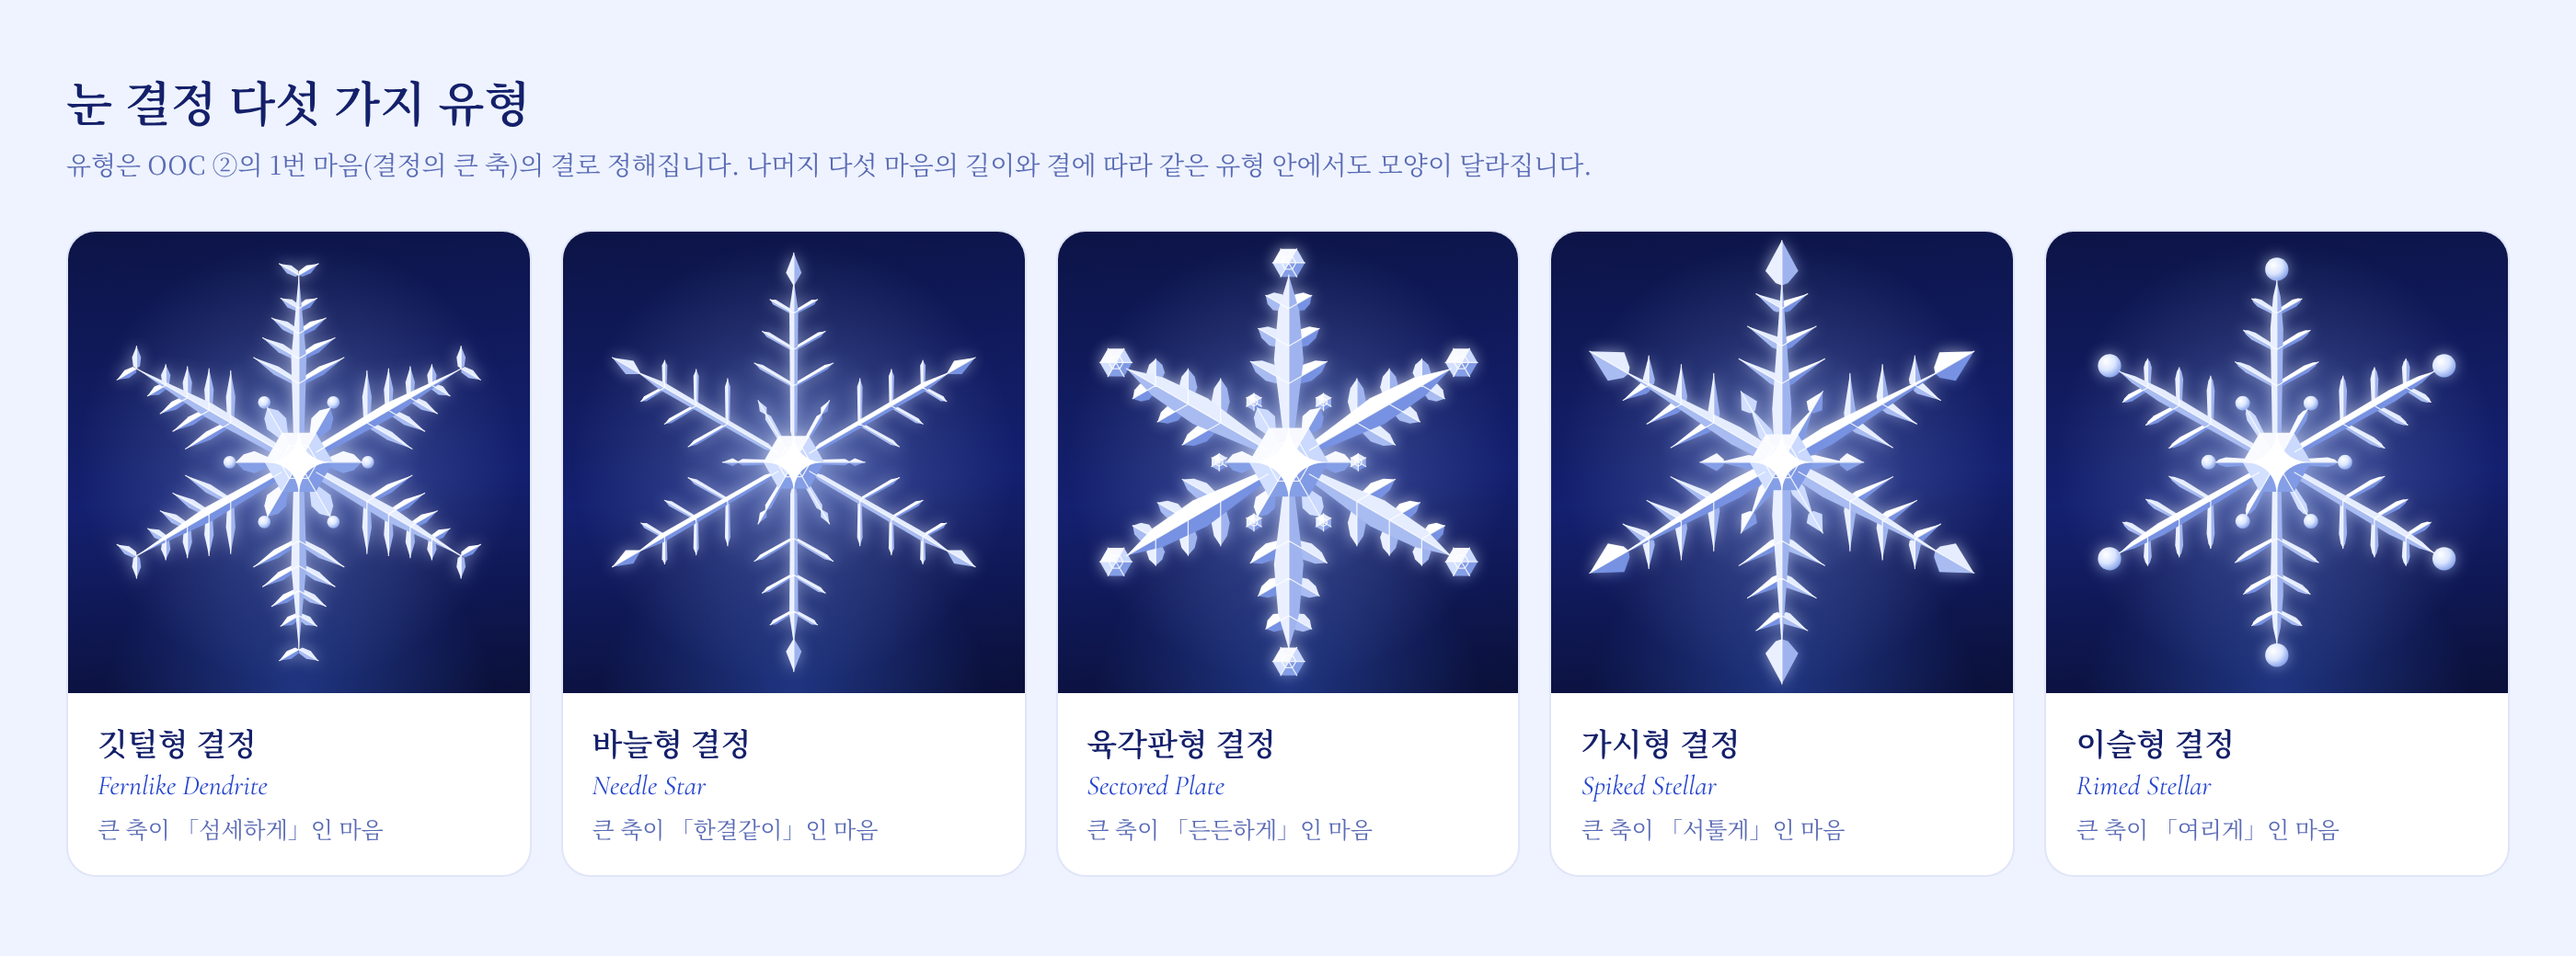
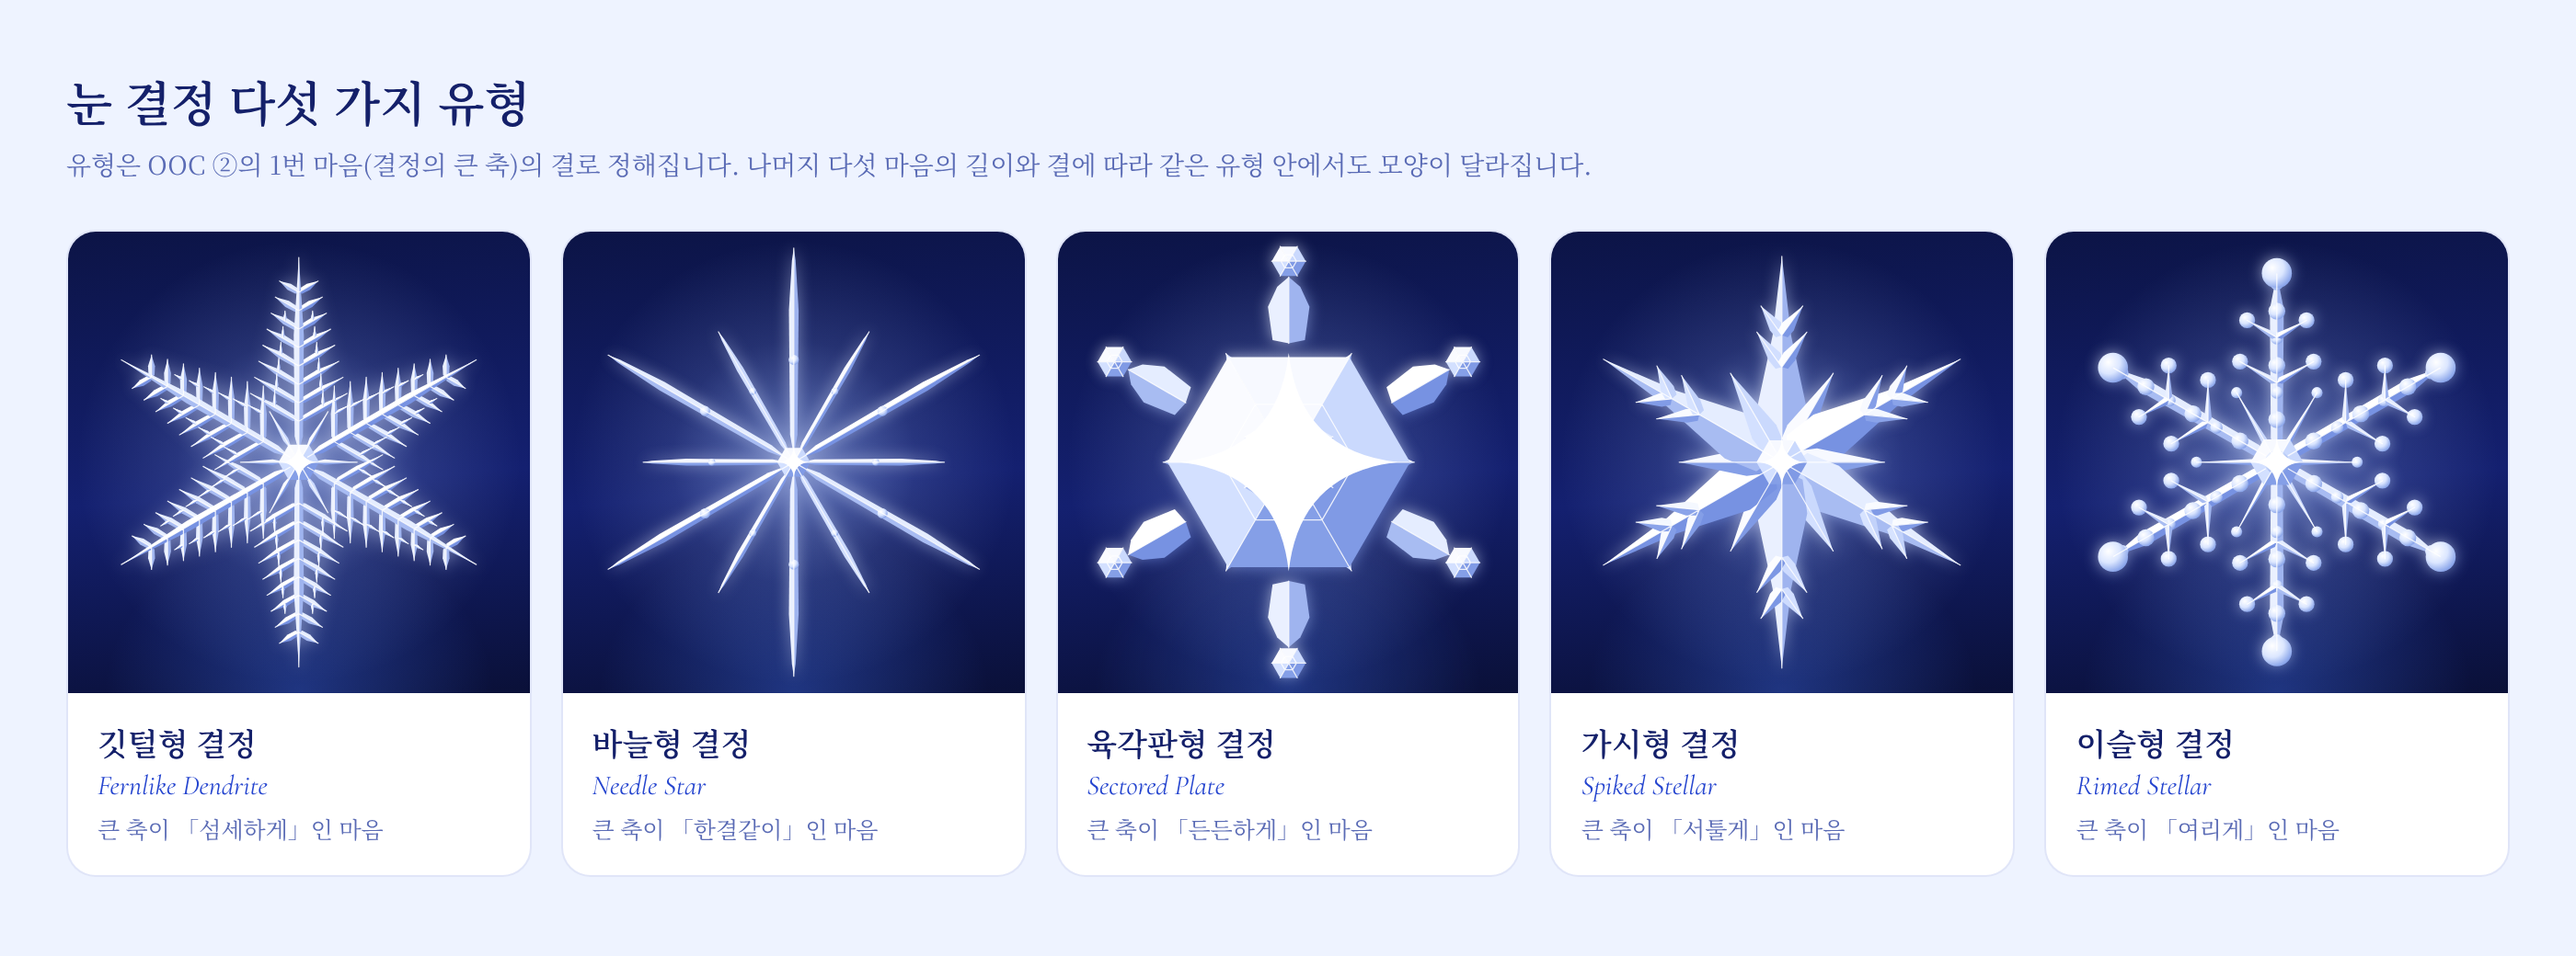
Distinct crystal architecture per type, reset inputs on going home, save the certificate as an image
Claude-Session: https://claude.ai/code/session_01WnYvxKb556Nj3LEXzt4QjJ

diff --git a/js/app.js b/js/app.js
@@ -448,27 +448,73 @@ void main(){
       return blade(x - dx * z * 0.3, y - dy * z * 0.3, ang, z * 1.8, [[0.4, z * 0.42]]);
     };
 
-    const L0 = 62 + A[0].len * 2.4, L1 = L0 * (0.27 + A[1].len * 0.011), core = 10 + A[4].len * 0.8;
-    const nB = 2 + Math.round(A[2].len / 4.5), bLen = L0 * (0.18 + A[2].len * 0.014);
-    const z3 = 4 + A[3].len * 0.5, z5 = 2.6 + A[5].len * 0.3;
+    // the first way of loving decides the whole architecture of the crystal; the other five tune it
+    const TYPE = A[0].style, n1 = A[1].len / 10, n2 = A[2].len / 10, n3 = A[3].len / 10, n4 = A[4].len / 10, n5 = A[5].len / 10;
+    const bead = (x, y, r) => { faces += `<circle cx="${f(x)}" cy="${f(y)}" r="${f(r)}" fill="url(#${U('bead')})"/>`; };
+    const pt = (ang, r) => [Math.sin(ang) * r, -Math.cos(ang) * r];
+    let core = 8;
     for (let i = 0; i < 6; i++) {
       const ang = i * Math.PI / 3, ang2 = ang + Math.PI / 6;
-      // secondary arm between main arms
-      const t2 = blade(Math.sin(ang2) * core * 0.8, -Math.cos(ang2) * core * 0.8, ang2, L1 - core * 0.8, scaled(A[1].style, 0.75));
-      ornament(A[5].style, t2[0], t2[1], ang2, z5);
-      // side branches: parallel to the neighbouring arms, longest near the root
-      for (let j = 0; j < nB; j++) {
-        const t = 0.42 + j * (0.4 / Math.max(1, nB - 1)), r = L0 * t, len = bLen * (1 - j * 0.2);
-        const bx = Math.sin(ang) * r, by = -Math.cos(ang) * r;
-        for (const s of [-1, 1]) blade(bx, by, ang + s * Math.PI / 3, len, scaled(A[2].style, 0.62));
+      if (TYPE === 'feather') {
+        // fern dendrite: long thin arms thick with side branches that carry their own twigs
+        core = 7 + n4 * 3;
+        const L = 84 + n1 * 8, pairs = 6 + Math.round(n2 * 3);
+        for (let j = 0; j < pairs; j++) {
+          const t = 0.2 + j * (0.72 / pairs), [bx, by] = pt(ang, L * t), len = L * (0.3 - t * 0.24) * (0.8 + n2 * 0.4);
+          for (const sgn of [-1, 1]) {
+            const tip = blade(bx, by, ang + sgn * Math.PI / 3, len, [[0.1, 1.3], [0.5, 1.5]]);
+            if (len > 12) { const m = [(bx + tip[0]) / 2, (by + tip[1]) / 2]; blade(m[0], m[1], ang + sgn * Math.PI / 3 + sgn * -Math.PI / 3, len * 0.32, [[0.3, 0.7]]); blade(m[0], m[1], ang, len * 0.32, [[0.3, 0.7]]); }
+          }
+        }
+        blade(...pt(ang, core * 0.5), ang, L - core * 0.5, [[0.08, 1.8], [0.6, 2.2]]);
+        blade(...pt(ang2, core * 0.6), ang2, 16 + n5 * 10, [[0.3, 1.2]]);
+      } else if (TYPE === 'needle') {
+        // needle star: twelve clean spears, no branches, a small bright hub
+        core = 6 + n4 * 3;
+        const L = 90, L2 = 52 + n1 * 26;
+        blade(...pt(ang, core * 0.4), ang, L, [[0.1, 1.6], [0.7, 2.1], [0.94, 0.8]]);
+        blade(...pt(ang2, core * 0.4), ang2, L2, [[0.1, 1.2], [0.7, 1.5], [0.94, 0.6]]);
+        const ring = 30 + n3 * 18;
+        bead(...pt(ang, ring), 1.6 + n5 * 1.2);
+        bead(...pt(ang2, ring * 0.8), 1.1 + n5 * 0.8);
+      } else if (TYPE === 'plate') {
+        // sectored plate: a broad hexagonal plate, ridged into sectors, short broad stubs at the corners
+        core = 40 + n4 * 14;
+        const stub = 18 + n1 * 18, [cx, cy] = pt(ang, core * 0.9);
+        blade(cx, cy, ang, stub, [[0.05, 7], [0.55, 9], [0.85, 5]]);
+        plate(...pt(ang, core * 0.9 + stub + 4 + n3 * 3), 5 + n3 * 4, ang * 180 / Math.PI + 30, 0.45);
+        const [mx, my] = pt(ang2, core * 0.8);
+        blade(mx, my, ang2, 6 + n5 * 8, [[0.3, 3]]);
+      } else if (TYPE === 'spike') {
+        // dagger star: six wide, sharp blades with swept-back barbs
+        core = 9 + n4 * 4;
+        const L = 80 + n1 * 10;
+        blade(...pt(ang, core * 0.3), ang, L, [[0.05, 9], [0.22, 11], [0.6, 4]]);
+        const barbs = 1 + Math.round(n2 * 2);
+        for (let j = 0; j < barbs; j++) {
+          const [bx, by] = pt(ang, L * (0.48 + j * 0.16));
+          for (const sgn of [-1, 1]) blade(bx, by, ang + sgn * 0.62, 13 + n3 * 8 - j * 3, [[0.05, 2.6], [0.3, 3]]);
+        }
+        blade(...pt(ang2, core * 0.5), ang2, 30 + n5 * 18, [[0.05, 5], [0.25, 6]]);
+      } else {
+        // rimed star: rounded arms strung with frost beads, beads on every twig
+        core = 9 + n4 * 4;
+        const L = 76 + n1 * 10;
+        blade(...pt(ang, core * 0.5), ang, L - 6, [[0.06, 2.6], [0.8, 3]]);
+        const beads = 4 + Math.round(n2 * 3);
+        for (let j = 0; j < beads; j++) bead(...pt(ang, core + (L - core) * (j + 0.6) / beads), 1.8 + (j % 2 ? 0.4 : 1.4) + n3 * 0.8);
+        bead(...pt(ang, L), 5 + n3 * 2.5);
+        for (const t of [0.42, 0.66]) {
+          const [bx, by] = pt(ang, L * t);
+          for (const sgn of [-1, 1]) { const tip = blade(bx, by, ang + sgn * Math.PI / 3, L * (0.3 - t * 0.18), [[0.1, 1.6]]); bead(tip[0], tip[1], 2.6 + n5 * 1.4); }
+        }
+        const t2 = blade(...pt(ang2, core * 0.6), ang2, 22 + n5 * 10, [[0.1, 1.4]]); bead(t2[0], t2[1], 2.4);
       }
-      // main arm
-      const tip = blade(Math.sin(ang) * core * 0.6, -Math.cos(ang) * core * 0.6, ang, L0 - core * 0.6, PROF[A[0].style]);
-      ornament(A[3].style, tip[0], tip[1], ang, z3);
     }
-    plate(0, 0, core, 30, A[4].style === 'plate' || A[4].style === 'needle' ? 0.55 : 0);
-    if (A[4].style === 'dew') faces += `<circle r="${f(core * 0.36)}" fill="url(#${U('bead')})"/>`;
-    const k = core * 0.9;
+    plate(0, 0, core, TYPE === 'plate' ? 0 : 30, TYPE === 'plate' ? 0.55 : 0);
+    if (TYPE === 'plate') { plate(0, 0, core * 0.3, 30, 0.6); }
+    if (TYPE === 'dew') bead(0, 0, core * 0.45);
+    const k = Math.min(core, 13) * 0.9;
     const glint = `<path class="fglint" d="M0 ${f(-k)}Q${f(k * 0.1)} ${f(-k * 0.1)} ${f(k)} 0Q${f(k * 0.1)} ${f(k * 0.1)} 0 ${f(k)}Q${f(-k * 0.1)} ${f(k * 0.1)} ${f(-k)} 0Q${f(-k * 0.1)} ${f(-k * 0.1)} 0 ${f(-k)}Z" fill="#fff"/>`;
 
     const star = z => `<path d="M0 ${f(-z)}Q${f(z * 0.12)} ${f(-z * 0.12)} ${f(z)} 0Q${f(z * 0.12)} ${f(z * 0.12)} 0 ${f(z)}Q${f(-z * 0.12)} ${f(z * 0.12)} ${f(-z)} 0Q${f(-z * 0.12)} ${f(-z * 0.12)} 0 ${f(-z)}Z" fill="#fff"/>`;
@@ -822,6 +868,65 @@ void main(){
     ].filter(Boolean).join('\n');
   }
 
+  /* ───────── save the certificate as an image (same approach as love-dive) ───────── */
+  async function fontEmbedCSS(node) {
+    const used = new Set(); for (const ch of node.innerText) used.add(ch.codePointAt(0));
+    const hits = range => {
+      if (!range) return true;
+      return range.split(',').some(part => {
+        const p = part.trim().replace(/^U\+/i, ''); let lo, hi;
+        if (p.includes('?')) { lo = parseInt(p.replace(/\?/g, '0'), 16); hi = parseInt(p.replace(/\?/g, 'F'), 16); }
+        else if (p.includes('-')) { const [x, y] = p.split('-'); lo = parseInt(x, 16); hi = parseInt(y.replace(/^U\+/i, ''), 16); }
+        else lo = hi = parseInt(p, 16);
+        for (const cp of used) if (cp >= lo && cp <= hi) return true;
+        return false;
+      });
+    };
+    const rules = [];
+    for (const sheet of document.styleSheets) { let list; try { list = sheet.cssRules; } catch { continue; } for (const r of list) if (r instanceof CSSFontFaceRule && hits(r.style.getPropertyValue('unicode-range'))) rules.push(r); }
+    const css = await Promise.all(rules.map(async r => {
+      const m = r.style.getPropertyValue('src').match(/url\(["']?([^"')]+)["']?\)/); if (!m) return '';
+      try {
+        const blob = await (await fetch(new URL(m[1], r.parentStyleSheet && r.parentStyleSheet.href || location.href).href)).blob();
+        const data = await new Promise((ok, no) => { const fr = new FileReader(); fr.onload = () => ok(fr.result); fr.onerror = no; fr.readAsDataURL(blob); });
+        const st = r.style, range = st.getPropertyValue('unicode-range');
+        return `@font-face{font-family:${st.getPropertyValue('font-family')};font-style:${st.getPropertyValue('font-style') || 'normal'};font-weight:${st.getPropertyValue('font-weight') || '400'};src:url(${data});${range ? `unicode-range:${range};` : ''}}`;
+      } catch { return ''; }
+    }));
+    return css.join('\n');
+  }
+  async function saveSheetImage(node, filename) {
+    if (!window.htmlToImage) throw new Error('no renderer');
+    await (document.fonts && document.fonts.ready);
+    const skip = p => /^(height|block-size|min-height|min-block-size|grid-template-rows)$|^(animation|transition)/.test(p);
+    const props = Array.from(getComputedStyle(document.documentElement)).filter(p => !skip(p));
+    node.classList.add('capturing');
+    let card;
+    try {
+    card = await window.htmlToImage.toCanvas(node, {
+      includeStyleProperties: props, pixelRatio: 2, fontEmbedCSS: await fontEmbedCSS(node), cacheBust: false,
+      style: { boxShadow: 'none', margin: '0' },
+      filter: el => !(el instanceof HTMLElement && (el.dataset.noCapture !== undefined || el.classList.contains('car-nav')))
+    });
+    } finally { node.classList.remove('capturing'); }
+    const pad = Math.round(card.width * 0.08), W = card.width + pad * 2, H = card.height + pad * 2;
+    const out = document.createElement('canvas'); out.width = W; out.height = H;
+    const g = out.getContext('2d'), grad = g.createLinearGradient(0, 0, 0, H);
+    grad.addColorStop(0, '#f4f7ff'); grad.addColorStop(1, '#d6e3ff');
+    g.fillStyle = grad; g.fillRect(0, 0, W, H);
+    g.save(); g.shadowColor = 'rgba(20, 36, 110, .28)'; g.shadowBlur = pad * 0.5; g.shadowOffsetY = pad * 0.15; g.drawImage(card, pad, pad); g.restore();
+    const blob = await new Promise(ok => out.toBlob(ok, 'image/jpeg', 0.92));
+    if (!blob) throw new Error('render failed');
+    const file = new File([blob], filename, { type: 'image/jpeg' });
+    if (matchMedia('(pointer: coarse)').matches && navigator.canShare && navigator.canShare({ files: [file] })) {
+      try { await navigator.share({ files: [file], title: 'ICE MELT' }); return 'shared'; } catch (e) { if (e && e.name === 'AbortError') return 'shared'; }
+    }
+    const url = URL.createObjectURL(blob), a = document.createElement('a');
+    a.href = url; a.download = filename; document.body.appendChild(a); a.click(); a.remove();
+    setTimeout(() => URL.revokeObjectURL(url), 4000);
+    return 'downloaded';
+  }
+
   async function copy(text, ok) {
     try { await navigator.clipboard.writeText(text); }
     catch {
@@ -839,6 +944,7 @@ void main(){
     body.classList.remove('freezing');
     body.classList.remove('thawing', 'thawed');
     setMelt(0);
+    resetSteps();
     show('intro');
   }
 
@@ -933,6 +1039,15 @@ void main(){
     e.target._t = setTimeout(() => accept(i, e.target.value), 350);
   });
 
+  function resetSteps() {
+    answers.forEach((_, j) => {
+      answers[j] = null; store.set('icemelt2:a' + j, '');
+      const el = stepEl(j), ta = $('textarea', el), pre = $('.prompt', el), peek = $('[data-act="peek"]', el);
+      ta.value = ''; ta.hidden = true; pre.hidden = true; fail(j, '');
+      if (peek) { peek.setAttribute('aria-expanded', 'false'); peek.textContent = 'OOC 내용 보기'; }
+    });
+    paintSteps();
+  }
   const build = () => normalize({ ...answers[0], ...answers[1] });
   function begin(d) { store.set('icemelt2:last', JSON.stringify(d)); lastBtn.hidden = false; Sfx.init(); startPlay(d); }
 
@@ -955,5 +1070,15 @@ void main(){
   $('#newBtn').addEventListener('click', goHome);
   $('#homeBtn').addEventListener('click', goHome);
   $('#copyResult').addEventListener('click', () => copy(resultText(), '결과를 복사했어요.'));
+  $('#saveImg').addEventListener('click', async e => {
+    const btn = e.currentTarget, label = btn.textContent;
+    btn.disabled = true; btn.textContent = '만드는 중…';
+    try {
+      const how = await saveSheetImage($('#sheet'), 'ice-melt-certificate.jpg');
+      toast(how === 'shared' ? '이미지를 공유 창으로 보냈어요.' : '이미지를 저장했어요.');
+    } catch (err) {
+      toast('이미지를 만들지 못했어요. 잠시 후 다시 눌러 주세요.');
+    } finally { btn.disabled = false; btn.textContent = label; }
+  });
   addEventListener('resize', () => { if (body.dataset.screen === 'play') state.heartRect = (state.done ? ice : $('#ice .heart')).getBoundingClientRect(); });
 })();

diff --git a/index.html b/index.html
@@ -8,7 +8,7 @@
 <meta name="theme-color" content="#d6e4ff">
 <link rel="preconnect" href="https://fonts.googleapis.com">
 <link rel="preconnect" href="https://fonts.gstatic.com" crossorigin>
-<link rel="stylesheet" href="https://fonts.googleapis.com/css2?family=Bagel+Fat+One&family=Cormorant+Garamond:ital,wght@1,300;1,400&family=Noto+Serif+KR:wght@300;400;500;600;700&family=Bodoni+Moda:ital,opsz,wght@0,6..96,400;1,6..96,400&family=IBM+Plex+Sans+KR:wght@300;400;500;600&family=Martian+Mono:wght@400;600&display=swap">
+<link rel="stylesheet" href="https://fonts.googleapis.com/css2?family=Bagel+Fat+One&family=Cormorant+Garamond:ital,wght@1,300;1,400&family=Noto+Serif+KR:wght@300;400;500;600;700&family=Bodoni+Moda:ital,opsz,wght@0,6..96,400;1,6..96,400&family=IBM+Plex+Sans+KR:wght@300;400;500;600&family=Martian+Mono:wght@400;600&display=swap" crossorigin="anonymous">
 <link rel="stylesheet" href="css/style.css">
 </head>
 <body data-screen="intro">
@@ -173,6 +173,7 @@
 
     <div class="go result-actions">
       <button class="btn primary" id="againBtn" type="button">다시 깨기</button>
+      <button class="btn" id="saveImg" type="button">이미지로 저장</button>
       <button class="btn" id="copyResult" type="button">결과 텍스트 복사</button>
       <button class="btn" id="newBtn" type="button">새 진단</button>
     </div>
@@ -181,6 +182,7 @@
 
 <div class="toast" id="toast" role="status"></div>
 
+<script src="js/vendor/html-to-image.js"></script>
 <script src="js/data.js"></script>
 <script src="js/app.js"></script>
 </body>

diff --git a/css/style.css b/css/style.css
@@ -599,3 +599,6 @@ body.thawing .ice .aurora { opacity: 1; }
 .duo .item.frozen, .duo .item.thawed { box-shadow: none; }
 .arm-part { font: 500 12px/1.5 var(--f-body); letter-spacing: .04em; color: var(--ink); }
 .aurora i { will-change: transform; }
+.sheet.capturing .car { margin: 0; }
+.sheet.capturing .arms { display: grid; grid-template-columns: repeat(3, minmax(0, 1fr)); overflow: visible; padding: 4px 0 0; }
+.sheet.capturing .car-nav { display: none; }

diff --git a/README.md b/README.md
@@ -59,3 +59,7 @@ Google Fonts에서 불러오며 모두 SIL Open Font License 1.1을 따른다.
 - Cormorant Garamond — © The Cormorant Project Authors
 - IBM Plex Sans KR — © IBM Corp.
 - Martian Mono — © The Martian Mono Project Authors
+
+## 사용한 라이브러리
+
+- [html-to-image](https://github.com/bubkoo/html-to-image) 1.11.11 — MIT License, © 2017-2023 W.Y. 감정서를 이미지로 저장할 때 쓴다(`js/vendor/`).
